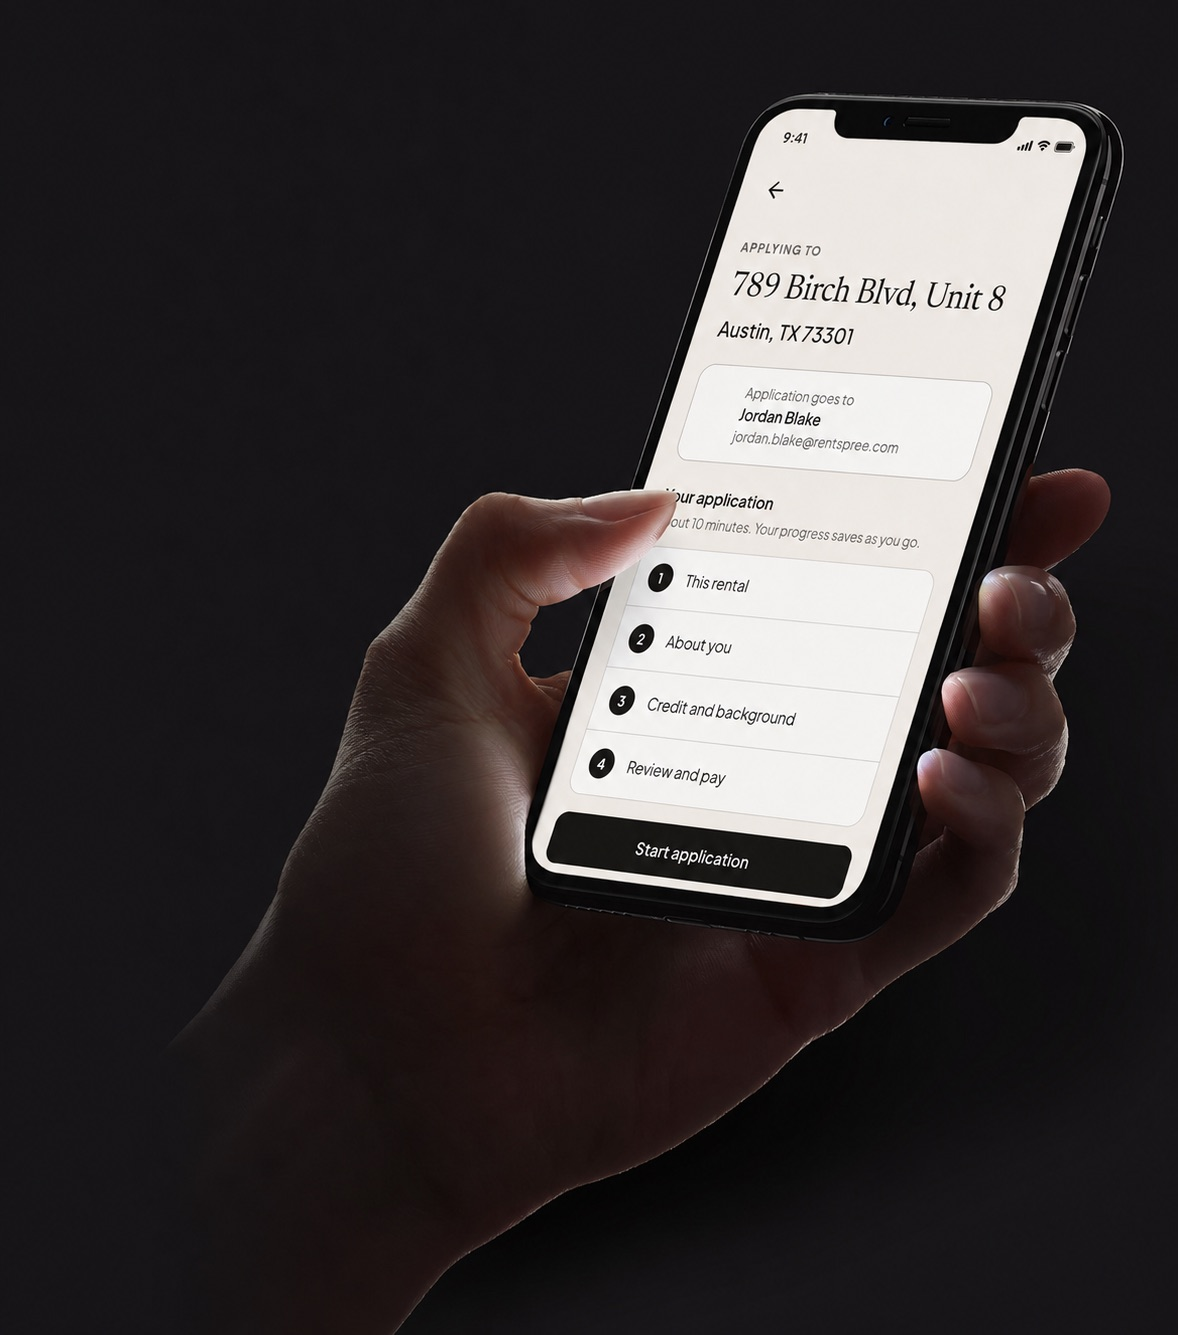
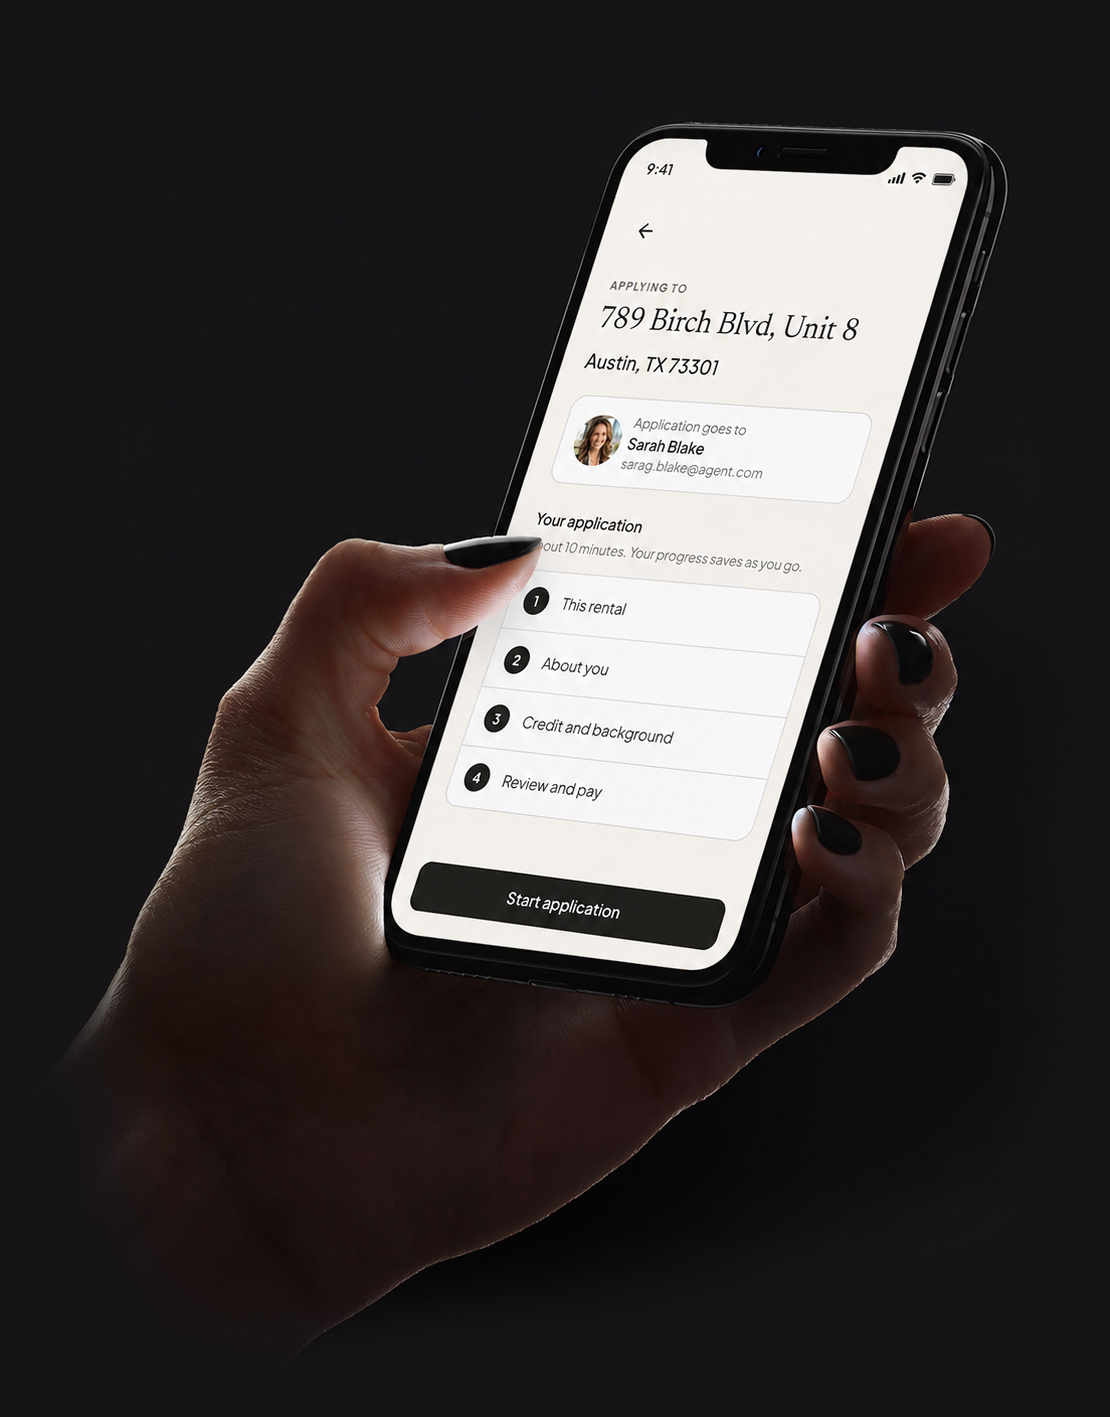
Rebuild thesis visual as a full-bleed PNG collage, update closing photo, revert payment stepper experiment
Thesis section now uses three flat screen exports (applications, how-are-you-applying, start) arranged as a right-aligned, full-bleed collage instead of the live still-mount, with the section breaking out of the centered reading column on desktop. Swapped in the latest closing photo with a matching background. Tried and then rolled back a synced payment-stepper panel in arc-three after review.

diff --git a/index.html b/index.html
@@ -45,8 +45,16 @@
           <p class="section-body">The redesign focused on helping more applicants finish and improving the information agents receive. It also created a path from the first application payment to deposits and rent after approval.</p>
         </div>
         <div class="split-visual">
-          <div class="still-mount" data-screen="applications-list" data-size="sm"
-               data-caption="One applicant, three separate transactions."></div>
+          <div class="collage-figure">
+            <div class="thesis-collage">
+              <img class="collage-front" src="img/thesis/applications.png"
+                   alt="Applications list showing three rental applications: not started, in progress, and submitted." />
+              <div class="collage-stack">
+                <img src="img/thesis/howareyou.png" alt="" aria-hidden="true" />
+                <img src="img/thesis/start.png" alt="" aria-hidden="true" />
+              </div>
+            </div>
+          </div>
         </div>
       </div>
     </div>
@@ -161,44 +169,12 @@
     <div class="wrap reveal">
       <p class="label eyebrow">Arc three</p>
       <h2 class="display section-headline">Putting payment in the right place.</h2>
-      <p class="section-body">Moving payment later was one of the biggest changes in the flow. Applicants now complete and review their information before they pay. By that point, they understand what the fee covers, and mistakes can still be corrected before reports run.</p>
-      <p class="section-body">Previous testing showed a tradeoff. Later payment created some additional drop-off, but the submissions that made it through were more complete. The reusable package also makes more sense here, after applicants understand how much work it can save on the next property.</p>
+      <p class="section-body">Applicants now review their information before paying, so errors can be corrected before reports run. Moving payment later created some drop-off, but the submissions that made it through were more complete. It also makes the reusable package easier to understand after applicants have experienced the full application.</p>
 
       <div class="moment">
         <div class="moment-layout" id="payment-flow-layout">
           <div class="phone-mount" data-screen="payment"
                data-caption="Pay to follow the application through final submission."></div>
-          <div class="annotate-panel">
-            <div class="notes-group" data-for="payment">
-              <p class="notes-title">Confirm and pay</p>
-              <ol class="notes">
-                <li><span class="n">01</span><span>Payment follows the application review, so applicants know what they're paying for before reports run.</span></li>
-                <li><span class="n">02</span><span>The reusable package appears after applicants have experienced the full application and understand how much work reuse can save.</span></li>
-                <li><span class="n">03</span><span>Saving the card is optional, but it creates a path to deposits and rent after approval.</span></li>
-              </ol>
-            </div>
-            <div class="notes-group" data-for="loader">
-              <p class="notes-title">Preparing your reports</p>
-              <ol class="notes">
-                <li><span class="n">01</span><span>The loader shows each report being prepared instead of leaving applicants in an unclear waiting state.</span></li>
-                <li><span class="n">02</span><span>The application has not been sent yet. That remains explicit while the reports run.</span></li>
-              </ol>
-            </div>
-            <div class="notes-group" data-for="reviewReport">
-              <p class="notes-title">Review your reports</p>
-              <ol class="notes">
-                <li><span class="n">01</span><span>Applicants review their credit, background, and eviction reports before anything is shared with the agent.</span></li>
-                <li><span class="n">02</span><span>Submit application appears only after they confirm their review. This is the moment the application is sent to Jordan.</span></li>
-              </ol>
-            </div>
-            <div class="notes-group" data-for="applicationsList">
-              <p class="notes-title">Applications</p>
-              <ol class="notes">
-                <li><span class="n">01</span><span>The applicant returns to the same overview where the application started.</span></li>
-                <li><span class="n">02</span><span>The property changes to a green Submitted state, and a toast confirms the address.</span></li>
-              </ol>
-            </div>
-          </div>
         </div>
       </div>
 

diff --git a/css/styles.css b/css/styles.css
@@ -234,6 +234,17 @@ section {
    this section so the three tracks aren't cramped. */
 #arc-2 .wrap { max-width: 1407px; }
 
+/* Thesis breaks out of the centered reading column on desktop — the collage's
+   bleed only reads as "full width" if the section actually is, hugging the
+   left edge instead of sitting in a centered 1080px box with dead space on
+   both sides. Right edge keeps the normal gutter so the bled screens still
+   have a soft landing rather than touching the viewport edge. Desktop-only:
+   below 1000px .split stacks to a single column and the standard centered
+   wrap reads better than a 30px-narrow left margin. */
+@media (min-width: 1000px) {
+  #thesis .wrap { max-width: none; padding-left: 30px; padding-right: var(--gutter); }
+}
+
 /* ── Device frame / bezel ─────────────────────────────────────────────────
    Bezel goes lighter than the page, not darker: a black bezel would merge
    into --page-bg and the phone would read as a floating rectangle instead of
@@ -426,11 +437,42 @@ html {
 /* ── Thesis intro — text + phone as one centered bundle, not a full-width
    two-column split. Only usage of .split/.split-visual on the page. ────── */
 .split { display: flex; flex-direction: column; align-items: center; gap: 48px; }
-.split-text { max-width: 536px; }
+.split-text { max-width: 500px; }
 .split-visual { display: flex; justify-content: center; }
 @media (min-width: 1000px) {
-  .split { flex-direction: row; justify-content: center; align-items: center; gap: 64px; }
+  .split { flex-direction: row; justify-content: flex-end; align-items: center; gap: 64px; }
   .split-visual { justify-content: flex-start; }
+}
+
+/* ── Thesis collage — flat PNG composite, not a live still-mount, all three
+   full screens at the same width with no clipping. Applications sits left,
+   in flow; the other two stack to its right at the same scale, taken clean
+   out of flow (position:absolute) and centered on the row, so their combined
+   height — taller than one screen — spills past the row's own box into the
+   hero/diagnosis whitespace above and below rather than being cropped to fit
+   it. z-index keeps that overflow paint on top of the neighboring sections
+   it bleeds into. PNGs are pre-masked to the phone's rounded silhouette on a
+   transparent ground, so drop-shadow (not box-shadow) reads as "lifted". ── */
+.collage-figure { display: flex; flex-direction: column; align-items: center; gap: 16px; min-width: 0; }
+.thesis-collage {
+  --collage-w: 520px;
+  --collage-fit: min(1, calc((100vw - 2 * var(--gutter)) / var(--collage-w)));
+  position: relative;
+  z-index: 5;
+  display: flex;
+  align-items: center;
+  width: var(--collage-w);
+  zoom: var(--collage-fit);
+}
+.thesis-collage img { display: block; width: 250px; flex-shrink: 0; filter: drop-shadow(var(--shadow-lg)); }
+.collage-stack {
+  position: absolute;
+  left: 270px;
+  top: 50%;
+  transform: translateY(-50%);
+  display: flex;
+  flex-direction: column;
+  gap: 20px;
 }
 
 .moment { padding: 40px 0; }
@@ -476,16 +518,6 @@ html {
 .notes { list-style: none; margin: 0; padding: 0; display: flex; flex-direction: column; gap: 18px; max-width: 360px; }
 .notes li { display: flex; gap: 14px; font-family: var(--font-body); font-size: 13px; line-height: 1.75; color: var(--page-soft); }
 .notes .n { font-family: var(--font-label); font-size: 12px; color: var(--page-muted); flex-shrink: 0; width: 16px; padding-top: 1px; }
-
-/* ── Arc three's annotation panel — one phone, changing copy. Only one
-   .notes block is unhidden at a time; js/payment-flow.js crossfades between
-   them as the phone advances through the payment sequence. ─────────────── */
-.annotate-panel { position: relative; }
-.notes-group + .notes-group { border-top: 1px solid var(--page-rule); margin-top: 24px; padding-top: 24px; }
-.notes-title {
-  font-family: var(--font-label); font-size: 11px; font-weight: 600; letter-spacing: 0.1em;
-  text-transform: uppercase; color: var(--page-muted); margin: 0 0 16px;
-}
 
 /* ── Diagnosis — the one earned numbered list ─────────────────────────── */
 .diagnosis-list { max-width: 720px; }
@@ -547,7 +579,7 @@ html {
 
 .closing-image {
   width: min(100%, 747px);
-  aspect-ratio: 1178 / 1335;
+  aspect-ratio: 1110 / 1417;
   background-image: url('../img/closing.jpg');
   background-size: cover;
   background-position: center;

diff --git a/js/payment-flow.js b/js/payment-flow.js
@@ -1,9 +1,7 @@
 /* ============================================================================
-   APPLICANTS — arc-3's phone stays put; the annotation panel is a static
-   reference covering all four states (payment -> loader -> reviewReport ->
-   applicationsList) side by side, so it reads the same regardless of where
-   the phone currently is. Only the one-time interaction caption reacts to
-   navigation, hiding itself once the visitor has driven the phone once.
+   APPLICANTS — arc-3's phone. The one-time interaction caption reacts to
+   navigation, hiding itself once the visitor has driven the phone once, and
+   reappearing on Reset.
    ============================================================================ */
 
 function initPaymentFlow() {
